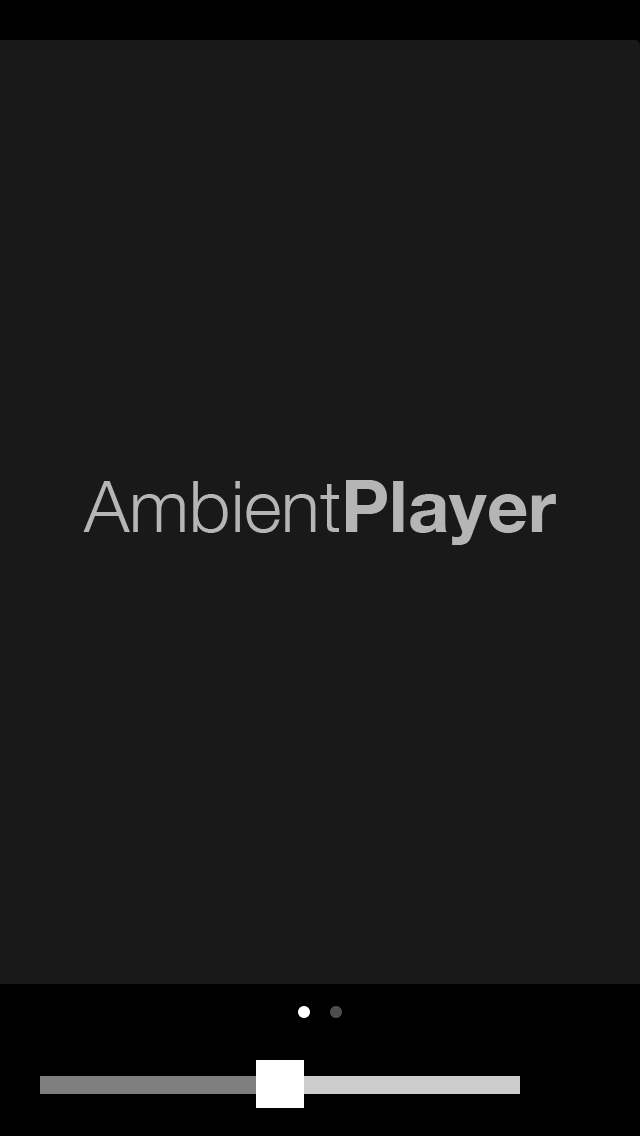
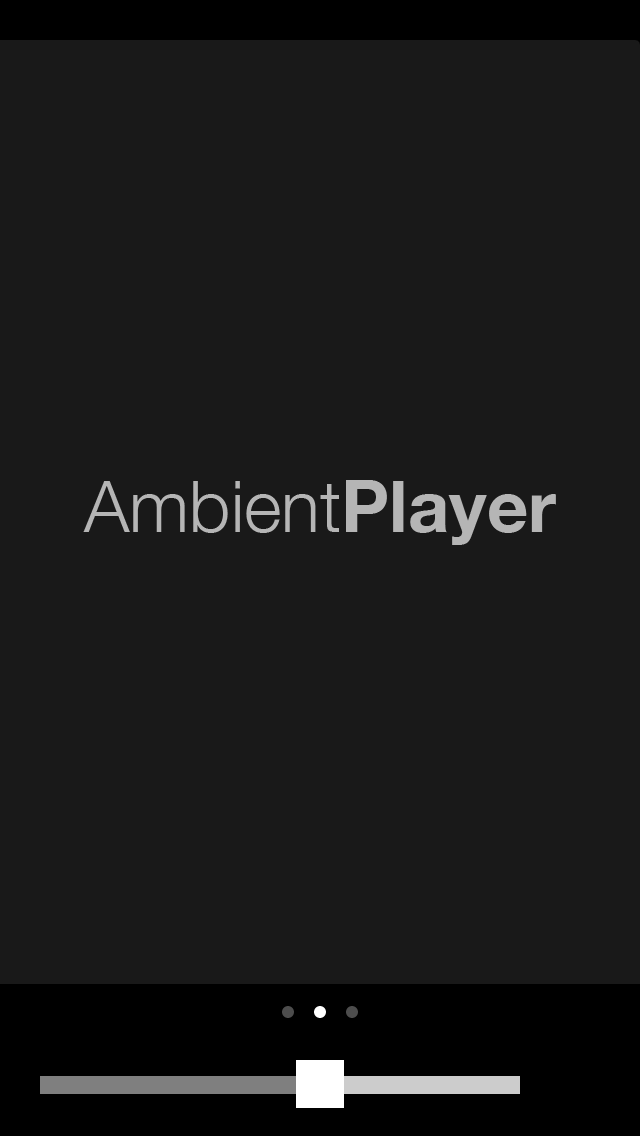
- timer added - version for submission

Changed region(s): [[0.375, 0.9243, 0.5625, 0.9859], [0.4375, 0.8627, 0.5625, 0.8935]]

diff --git a/AmbientPlayer/APViewController.m b/AmbientPlayer/APViewController.m
@@ -46,8 +46,7 @@ const NSInteger kTagAlertDeleteSound = 1;
 
 @implementation APViewController
 
-SYNTHESIZE(session)
-;
+SYNTHESIZE(session);
 SYNTHESIZE(player);
 SYNTHESIZE(preset);
 
@@ -58,6 +57,8 @@ SYNTHESIZE(preset);
         //self.bannerView = [ADBannerView new];
         //self.bannerView.delegate = self;
         _updateTimer = [CADisplayLink displayLinkWithTarget:self selector:@selector(timerUpdate:)];
+        _dateFormatter = [[NSDateFormatter alloc]init];
+        _dateFormatter.dateFormat = @"HH:mm:ss";
     }
     return self;
 }
@@ -156,6 +157,9 @@ void audioRouteChangeListenerCallback(void *clientData, AudioSessionPropertyID i
 
     // Init CALayer
     [self initLayersAndViewsForAnimation];
+    
+    // Set default value for timer
+    self.timerPicker.countDownDuration = 1800;
 }
 
 - (void)setupAudioSession {
@@ -484,6 +488,8 @@ void audioRouteChangeListenerCallback(void *clientData, AudioSessionPropertyID i
         float ch1 = [self.player powerForChannel:1];
         [cell.levelMeter updateValuesWith:ch0 and:ch1];
     }
+    
+    [self updateTimer:sender.timestamp];
 }
 
 - (IBAction)changeVolume:(id)sender {
@@ -613,12 +619,16 @@ void audioRouteChangeListenerCallback(void *clientData, AudioSessionPropertyID i
     int index = self.pageControl.currentPage;
     if (index == 0) {
         [self turnFace:1];
+    } else if (index == 1) {
+        [self turnFace:2];
     }
 }
 
 - (IBAction)onSwipeRight:(id)sender {
     int index = self.pageControl.currentPage;
-    if (index == 1) {
+    if (index == 2) {
+        [self turnFace:1];
+    } else if (index == 1) {
         [self turnFace:0];
     }
 }
@@ -626,8 +636,8 @@ void audioRouteChangeListenerCallback(void *clientData, AudioSessionPropertyID i
 #pragma mark Cubic transition
 
 CALayer *_parent;
-CALayer *_layers[2];
-UIView *_views[2];
+CALayer *_layers[3];
+UIView *_views[3];
 
 - (void)initLayersAndViewsForAnimation {
 
@@ -642,7 +652,11 @@ UIView *_views[2];
     r = CATransform3DMakeRotation(M_PI * 0.5, 0, 1, 0);
     t = CATransform3DMakeTranslation(viewWidth / 2, 0, -viewWidth / 2);
     CATransform3D right = CATransform3DConcat(r, t);
-
+    
+    r = CATransform3DMakeRotation(-M_PI * 0.5, 0, 1, 0);
+    t = CATransform3DMakeTranslation(-viewWidth / 2, 0, -viewWidth / 2);
+    CATransform3D left = CATransform3DConcat(r, t);
+    
     if (_parent == nil) {
         _parent = [CALayer layer];
         _parent.bounds = CGRectMake(0, 0, viewWidth, viewHeight);
@@ -651,12 +665,12 @@ UIView *_views[2];
         [self initParentTransform];
         [self.view.layer insertSublayer:_parent atIndex:0];
     }
+
     if (_layers[0] == nil) {
         _layers[0] = [CALayer layer];
         _layers[0].bounds = CGRectMake(0, 0, viewWidth, viewHeight);
         _layers[0].position = CGPointMake(viewWidth / 2, viewHeight / 2);
-        //_layers[0].backgroundColor = [UIColor redColor].CGColor;
-        _layers[0].transform = front;
+        _layers[0].transform = left;
         [_parent addSublayer:_layers[0]];
     }
 
@@ -664,13 +678,21 @@ UIView *_views[2];
         _layers[1] = [CALayer layer];
         _layers[1].bounds = CGRectMake(0, 0, viewWidth, viewHeight);
         _layers[1].position = CGPointMake(viewWidth / 2, viewHeight / 2);
-        //_layers[1].backgroundColor = [UIColor blueColor].CGColor;
-        _layers[1].transform = right;
+        _layers[1].transform = front;
         [_parent addSublayer:_layers[1]];
     }
 
-    _views[0] = self.presetCollectionView;
-    _views[1] = self.recordedCollectionView;
+    if (_layers[2] == nil) {
+        _layers[2] = [CALayer layer];
+        _layers[2].bounds = CGRectMake(0, 0, viewWidth, viewHeight);
+        _layers[2].position = CGPointMake(viewWidth / 2, viewHeight / 2);
+        _layers[2].transform = right;
+        [_parent addSublayer:_layers[2]];
+    }
+
+    _views[0] = self.settingsView;
+    _views[1] = self.presetCollectionView;
+    _views[2] = self.recordedCollectionView;
 }
 
 - (void)turnFace:(int)newIndex {
@@ -695,7 +717,7 @@ UIView *_views[2];
     _views[index].frame = CGRectMake(-viewWidth, 0, viewWidth, viewHeight);
 
     // Begin animation
-    CGFloat rad = (0 - newIndex) * M_PI * 0.5;
+    CGFloat rad = (1 - newIndex) * M_PI * 0.5;
     [CATransaction begin];
     [CATransaction setAnimationDuration:0.5];
     [CATransaction setCompletionBlock:^(void) {
@@ -730,4 +752,43 @@ UIView *_views[2];
     [self setCollectionParent:nil];
     [super viewDidUnload];
 }
+
+#pragma mark Timer
+
+BOOL _timerRunning = NO;
+NSTimeInterval _startTime = 0;
+
+- (void)toggleTimer:(id)sender {
+    if (_timerRunning) {
+        _timerRunning = NO;
+        self.timerPicker.hidden = NO;
+        [self.timerStartButton setTitle:@"Start" forState:UIControlStateNormal];
+    } else {
+        self.timerLabel.text = [_dateFormatter stringFromDate:self.timerPicker.date];
+        _startTime = _updateTimer.timestamp;
+        _timerRunning = YES;
+        self.timerPicker.hidden = YES;
+        [self.timerStartButton setTitle:@"Stop" forState:UIControlStateNormal];
+    }
+}
+
+- (void)updateTimer:(NSTimeInterval)timestamp {
+    if (_timerRunning) {
+        NSInteger t = (NSInteger)(self.timerPicker.countDownDuration - (timestamp - _startTime));
+        NSInteger h = t / 3600;
+        NSInteger m = (t % 3600) / 60;
+        NSInteger s = t % 60;
+        NSString *label = [NSString stringWithFormat:@"%02d:%02d:%02d", h, m, s];
+        self.timerLabel.text = label;
+        
+        if (t == 0) {
+            [self toggleTimer:nil];
+            [self deselectAll];
+            [self updatePlayState];
+            // Stop playing music as well
+            [[MPMusicPlayerController iPodMusicPlayer] stop];
+        }
+    }
+}
+
 @end

diff --git a/AmbientPlayer/APViewController.h b/AmbientPlayer/APViewController.h
@@ -17,21 +17,29 @@
     BOOL _playingItemInPresetFlipped;
     NSIndexPath *_playingItemPathInRecorded;
     BOOL _playingItemInRecordedFlipped;
+    NSDateFormatter *_dateFormatter;
 }
 
 @property (weak, nonatomic) IBOutlet UIScrollView *pageScrollView;
 @property (weak, nonatomic) IBOutlet UIPageControl *pageControl;
+@property (weak, nonatomic) IBOutlet UIView *settingsView;
 @property (weak, nonatomic) IBOutlet UICollectionView *presetCollectionView;
 @property (weak, nonatomic) IBOutlet UICollectionView *recordedCollectionView;
 @property (weak, nonatomic) IBOutlet MPVolumeView *routeView;
 @property (weak, nonatomic) IBOutlet UISlider *volumeSlider;
 @property (weak, nonatomic) IBOutlet UIView *collectionParent;
 
+@property (weak, nonatomic) IBOutlet UIDatePicker *timerPicker;
+@property (weak, nonatomic) IBOutlet UIButton *timerStartButton;
+@property (weak, nonatomic) IBOutlet UILabel *timerLabel;
+
 @property (strong, nonatomic) NSFetchedResultsController *fetchedResultsController;
 @property (strong, nonatomic) NSManagedObjectContext *managedObjectContext;
 
 - (IBAction)changeVolume:(id)sender;
 - (IBAction)showShareSheet:(id)sender;
+
+- (IBAction)toggleTimer:(id)sender;
 
 - (void)deselectAll;
 - (void)updatePlayState;
